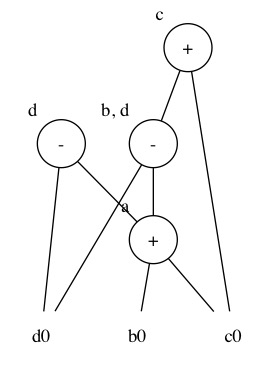
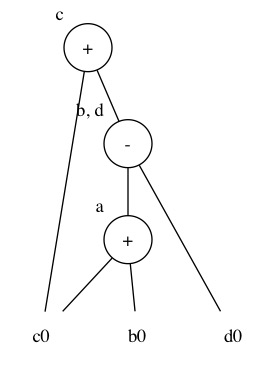
On merge les node identique maintenant

diff --git a/TP5/PrintExpressionDAGVisitor.java b/TP5/PrintExpressionDAGVisitor.java
@@ -55,7 +55,8 @@ public class PrintExpressionDAGVisitor implements ParserVisitor
     Integer indexLoop = 0;
     Integer indexLoop2 = 0;
     Boolean dejaTrouve = false;
-    Boolean toWrite = false;
+    Integer indexToSkip = -1;
+
     for(Vector<String> i: compare_print) {
       String operator = i.get(1);
       String enf1 = i.get(2);
@@ -68,6 +69,8 @@ public class PrintExpressionDAGVisitor implements ParserVisitor
       for(Vector<String> j: compare_print) {
         if(j.get(1).equals(operator) && indexLoop != indexLoop2){
           if(j.get(2).equals(enf1) && j.get(3).equals(enf2)) {
+            indexToSkip = indexLoop;
+
             if(!dejaTrouve) {
               isIdentique = true;
               dejaTrouve = true;
@@ -81,20 +84,23 @@ public class PrintExpressionDAGVisitor implements ParserVisitor
 
       if(isIdentique) {
         m_writer.println("  " + i.get(4) + " [label=\"" + i.get(1) + "\", xlabel=\"" + i.get(0) + ", " + identiqueAdd  + "\", shape=\"circle\"]");
-        toWrite = true;
+      }
+      else if(i.get(4).equals(String.valueOf(indexToSkip))){
+        //System.out.println(i.get(4));
+        //System.out.println(i);
       }
       else {
-          m_writer.println("  " + i.get(4) + " [label=\"" + i.get(1) + "\", xlabel=\"" + i.get(0) + "\", shape=\"circle\"]");
+        m_writer.println("  " + i.get(4) + " [label=\"" + i.get(1) + "\", xlabel=\"" + i.get(0) + "\", shape=\"circle\"]");
       }
-
       indexLoop++;
     }
 
     // La visite mémorise les liens que l'on imprime ensuite
     for (String link : m_links) {
-      m_writer.println("  " + link);
+      if(!link.contains(String.valueOf(indexToSkip))) {
+        m_writer.println("  " + link);
+      }
     }
-
 
 
     // rank = sink force les noeuds suivant d'être au plus bas du graphe
@@ -154,6 +160,7 @@ public class PrintExpressionDAGVisitor implements ParserVisitor
       }
 
       if(parentNode.equals(enfant2)) {
+
         addLink(String.valueOf(m_nodes.size()), myMap.get(v_nodes.indexOf(enfant2)));
         enfant2Pres = true;
       }
@@ -166,10 +173,9 @@ public class PrintExpressionDAGVisitor implements ParserVisitor
     if(!enfant2Pres) {
       addLink(String.valueOf(m_nodes.size()), enfant2);
     }
+
     storeData(assigned.getValue(), node.getOp(), enfant1, enfant2, String.valueOf(m_nodes.size()));
     addNode(String.valueOf(m_nodes.size()), node.getOp(), assigned.getValue());
-
-    
 
     return null;
   }
@@ -224,10 +230,9 @@ public class PrintExpressionDAGVisitor implements ParserVisitor
     if(!enfant1Pres) {
       addLink(String.valueOf(m_nodes.size()), enfant1);
     }
+
     storeData(assigned.getValue(), "=", enfant1, "", String.valueOf(m_nodes.size()));
     addNode(String.valueOf(m_nodes.size()), "=", assigned.getValue());
-
-    
 
     return null;
   }
@@ -264,8 +269,7 @@ public class PrintExpressionDAGVisitor implements ParserVisitor
   }
 
 
-  public void addLink(String id1, String id2)
-  {
+  public void addLink(String id1, String id2) {
     m_links.add(id1 + " -- " + id2);
   }
 

diff --git a/TP5/gen/PrintExpressionDAGVisitor.java b/TP5/gen/PrintExpressionDAGVisitor.java
@@ -55,7 +55,8 @@ public class PrintExpressionDAGVisitor implements ParserVisitor
     Integer indexLoop = 0;
     Integer indexLoop2 = 0;
     Boolean dejaTrouve = false;
-    Boolean toWrite = false;
+    Integer indexToSkip = -1;
+
     for(Vector<String> i: compare_print) {
       String operator = i.get(1);
       String enf1 = i.get(2);
@@ -68,6 +69,8 @@ public class PrintExpressionDAGVisitor implements ParserVisitor
       for(Vector<String> j: compare_print) {
         if(j.get(1).equals(operator) && indexLoop != indexLoop2){
           if(j.get(2).equals(enf1) && j.get(3).equals(enf2)) {
+            indexToSkip = indexLoop;
+
             if(!dejaTrouve) {
               isIdentique = true;
               dejaTrouve = true;
@@ -81,20 +84,23 @@ public class PrintExpressionDAGVisitor implements ParserVisitor
 
       if(isIdentique) {
         m_writer.println("  " + i.get(4) + " [label=\"" + i.get(1) + "\", xlabel=\"" + i.get(0) + ", " + identiqueAdd  + "\", shape=\"circle\"]");
-        toWrite = true;
+      }
+      else if(i.get(4).equals(String.valueOf(indexToSkip))){
+        //System.out.println(i.get(4));
+        //System.out.println(i);
       }
       else {
-          m_writer.println("  " + i.get(4) + " [label=\"" + i.get(1) + "\", xlabel=\"" + i.get(0) + "\", shape=\"circle\"]");
+        m_writer.println("  " + i.get(4) + " [label=\"" + i.get(1) + "\", xlabel=\"" + i.get(0) + "\", shape=\"circle\"]");
       }
-
       indexLoop++;
     }
 
     // La visite mémorise les liens que l'on imprime ensuite
     for (String link : m_links) {
-      m_writer.println("  " + link);
+      if(!link.contains(String.valueOf(indexToSkip))) {
+        m_writer.println("  " + link);
+      }
     }
-
 
 
     // rank = sink force les noeuds suivant d'être au plus bas du graphe
@@ -154,6 +160,7 @@ public class PrintExpressionDAGVisitor implements ParserVisitor
       }
 
       if(parentNode.equals(enfant2)) {
+
         addLink(String.valueOf(m_nodes.size()), myMap.get(v_nodes.indexOf(enfant2)));
         enfant2Pres = true;
       }
@@ -166,10 +173,9 @@ public class PrintExpressionDAGVisitor implements ParserVisitor
     if(!enfant2Pres) {
       addLink(String.valueOf(m_nodes.size()), enfant2);
     }
+
     storeData(assigned.getValue(), node.getOp(), enfant1, enfant2, String.valueOf(m_nodes.size()));
     addNode(String.valueOf(m_nodes.size()), node.getOp(), assigned.getValue());
-
-    
 
     return null;
   }
@@ -224,10 +230,9 @@ public class PrintExpressionDAGVisitor implements ParserVisitor
     if(!enfant1Pres) {
       addLink(String.valueOf(m_nodes.size()), enfant1);
     }
+
     storeData(assigned.getValue(), "=", enfant1, "", String.valueOf(m_nodes.size()));
     addNode(String.valueOf(m_nodes.size()), "=", assigned.getValue());
-
-    
 
     return null;
   }
@@ -264,8 +269,7 @@ public class PrintExpressionDAGVisitor implements ParserVisitor
   }
 
 
-  public void addLink(String id1, String id2)
-  {
+  public void addLink(String id1, String id2) {
     m_links.add(id1 + " -- " + id2);
   }
 
